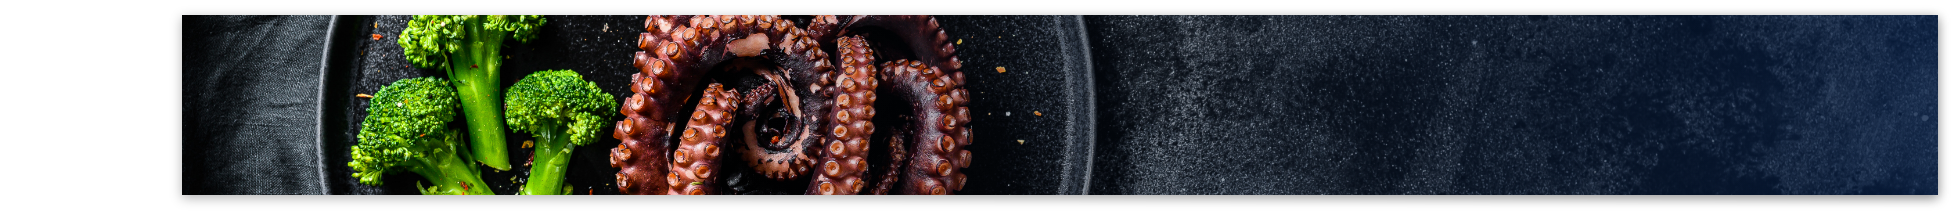
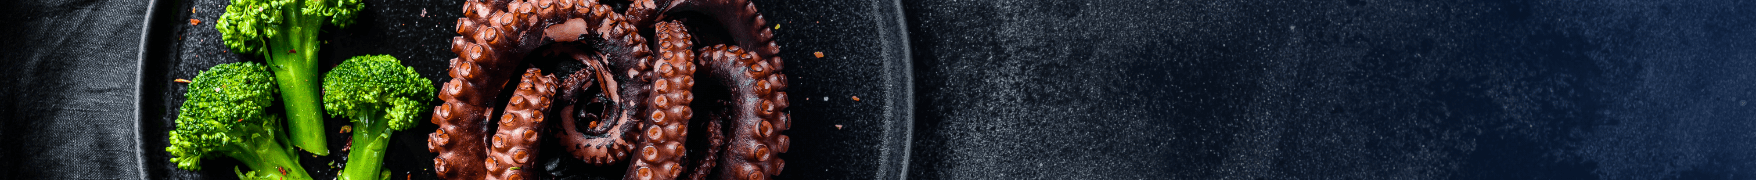
header top update

diff --git a/index.html b/index.html
@@ -3,7 +3,7 @@
 <head>
 	<meta charset="utf-8">
 	<meta http-equiv="x-ua-compatible" content="ie=edge">
-	<title>Online Doctor Consultation Singapore | Virtual Doctor Singapore</title>
+	<title>Place R</title>
 	<meta name="description" content="">
 	<meta name="viewport" content="width=device-width, initial-scale=1, shrink-to-fit=no">
 	<link href="assets/images/logo/favicon.png" rel="shortcut icon" type="image/x-icon">
@@ -27,6 +27,89 @@
 </head>
 
 <body id="page-top">
+
+	<div class="full_body_area">
+		<!--==========================================
+					Start Header area
+		===========================================-->
+		<div class="left_site_menu_area">
+			<div class="logo">
+				<a href=""><img src="assets/images/logo/logo.png" alt=""></a>
+			</div>
+			<div class="main_menu">
+				<ul>
+					<li><a href="">ENTRADAS</a></li>
+					<li><a href="">SOPAS</a></li>
+					<li><a href="">ENSALADAS</a></li>
+					<li><a href="">PASTAS</a></li>
+					<li><a href="">GRILL</a></li>
+					<li><a href="">ESPECIALES</a></li>
+					<li><a href="">BEBIDAS</a></li>
+					<li><a href="">POSTRES</a></li>
+				</ul>
+			</div>
+		</div>
+		<!--==========================================
+		 			End Header area
+		===========================================-->
+
+		<!--==========================================
+					Start Main Body Area
+		===========================================-->
+		<div class="right_body_content">
+			<!-- Top Common Header -->
+			<div class="common_top_header">
+				<div class="container">
+					<div class="row">
+						<div class="col-12">
+							<div class="top_title">
+								<h1>ENTRADAS</h1>
+							</div>
+						</div>
+					</div>
+				</div>
+			</div>
+			<!-- Top Common Header -->
+			<!-- Main Body content  -->
+			<div class="main_body_content">
+				<div class="container">
+					<div class="row">
+						<div class="col-12">
+							<p>Lorem ipsum dolor, sit amet consectetur adipisicing elit. Et quam, dignissimos nihil tempore id beatae tempora eum saepe eveniet ut numquam repellendus eaque recusandae excepturi non labore molestias culpa, blanditiis hic nulla quibusdam consequuntur assumenda, incidunt ab? Eos, aspernatur eveniet! Lorem ipsum dolor sit amet consectetur adipisicing elit. Labore maiores voluptatum veritatis doloribus asperiores deleniti ducimus ab debitis sint magni. Eius corrupti quasi voluptates aliquid fugiat esse, nisi modi odio mollitia sequi voluptate impedit quisquam perspiciatis, ullam assumenda debitis. Consequuntur saepe ratione cum, fugiat suscipit nihil quas aliquam nostrum eligendi at porro repudiandae maxime tempora deleniti perferendis officia tempore iusto dolor mollitia ipsa harum voluptatem fugit excepturi similique. Magni nisi reprehenderit omnis et, dolores tenetur nam maiores placeat, harum illo nihil voluptas velit nobis pariatur vero optio? Illum incidunt impedit et vitae eum id maiores quidem ducimus. Quo incidunt cum natus inventore dignissimos, et vero possimus ipsam animi consequuntur non maiores reiciendis debitis quam veniam, asperiores ab cumque quidem id consequatur placeat. Ad cupiditate quibusdam harum! Voluptates quo consequuntur quos id architecto quis velit praesentium minima laborum beatae consectetur voluptatem dolor ab distinctio necessitatibus temporibus, sunt dolores tempore doloremque excepturi illum possimus minus. Deserunt, libero architecto. Explicabo quos aliquam corrupti, animi quis ad odit at aperiam distinctio ratione facilis dolor labore fugit cumque cupiditate vel facere quo reprehenderit atque repellendus esse nulla? Eius dolores sapiente voluptates repudiandae. Maxime nulla consequuntur assumenda, ducimus excepturi tenetur dolores dolore vitae, eius, veniam nihil mollitia? Expedita, beatae tempora. Dolore tempora nisi, quisquam porro adipisci magni excepturi repellat. Quaerat itaque aut deserunt soluta dignissimos accusamus, repellendus repudiandae ut illum ipsam fugiat odio sed veritatis temporibus earum, commodi blanditiis tempora quo. Quod, corporis. Eius doloribus porro, consectetur totam deleniti cumque obcaecati ullam suscipit facere quis, id consequatur! Quaerat asperiores doloremque itaque tempore repudiandae similique officiis, assumenda sapiente, ut molestias eos at nam. Dolore earum, vero omnis quis voluptatibus libero, a eveniet distinctio qui, tempora repellendus odio ullam quasi? Voluptates praesentium iure nostrum sequi, modi nihil delectus sit eius unde autem inventore exercitationem illo maiores alias nesciunt maxime, repellendus neque, doloribus cumque commodi! Magni ullam distinctio porro voluptates, odio minus, perferendis pariatur nesciunt saepe neque repellendus nisi molestias dicta? Dolorem, dolorum quod! Officia quaerat fugit mollitia ipsa eveniet iste, natus illo cumque libero ducimus reiciendis obcaecati quidem, eum debitis deleniti sed et ea nihil nobis vel rerum necessitatibus consectetur itaque minus. Voluptates, in. Optio ex tempore, eum reprehenderit maxime quis culpa tempora provident quidem, eaque laboriosam iste blanditiis aliquid, molestias temporibus quod. Pariatur minima corrupti reprehenderit, rerum nulla delectus sit impedit ex, vero ducimus, neque non? Laboriosam repudiandae id alias minus exercitationem iste temporibus ut unde sapiente?</p>
+							<p>Lorem ipsum dolor, sit amet consectetur adipisicing elit. Et quam, dignissimos nihil tempore id beatae tempora eum saepe eveniet ut numquam repellendus eaque recusandae excepturi non labore molestias culpa, blanditiis hic nulla quibusdam consequuntur assumenda, incidunt ab? Eos, aspernatur eveniet! Lorem ipsum dolor sit amet consectetur adipisicing elit. Labore maiores voluptatum veritatis doloribus asperiores deleniti ducimus ab debitis sint magni. Eius corrupti quasi voluptates aliquid fugiat esse, nisi modi odio mollitia sequi voluptate impedit quisquam perspiciatis, ullam assumenda debitis. Consequuntur saepe ratione cum, fugiat suscipit nihil quas aliquam nostrum eligendi at porro repudiandae maxime tempora deleniti perferendis officia tempore iusto dolor mollitia ipsa harum voluptatem fugit excepturi similique. Magni nisi reprehenderit omnis et, dolores tenetur nam maiores placeat, harum illo nihil voluptas velit nobis pariatur vero optio? Illum incidunt impedit et vitae eum id maiores quidem ducimus. Quo incidunt cum natus inventore dignissimos, et vero possimus ipsam animi consequuntur non maiores reiciendis debitis quam veniam, asperiores ab cumque quidem id consequatur placeat. Ad cupiditate quibusdam harum! Voluptates quo consequuntur quos id architecto quis velit praesentium minima laborum beatae consectetur voluptatem dolor ab distinctio necessitatibus temporibus, sunt dolores tempore doloremque excepturi illum possimus minus. Deserunt, libero architecto. Explicabo quos aliquam corrupti, animi quis ad odit at aperiam distinctio ratione facilis dolor labore fugit cumque cupiditate vel facere quo reprehenderit atque repellendus esse nulla? Eius dolores sapiente voluptates repudiandae. Maxime nulla consequuntur assumenda, ducimus excepturi tenetur dolores dolore vitae, eius, veniam nihil mollitia? Expedita, beatae tempora. Dolore tempora nisi, quisquam porro adipisci magni excepturi repellat. Quaerat itaque aut deserunt soluta dignissimos accusamus, repellendus repudiandae ut illum ipsam fugiat odio sed veritatis temporibus earum, commodi blanditiis tempora quo. Quod, corporis. Eius doloribus porro, consectetur totam deleniti cumque obcaecati ullam suscipit facere quis, id consequatur! Quaerat asperiores doloremque itaque tempore repudiandae similique officiis, assumenda sapiente, ut molestias eos at nam. Dolore earum, vero omnis quis voluptatibus libero, a eveniet distinctio qui, tempora repellendus odio ullam quasi? Voluptates praesentium iure nostrum sequi, modi nihil delectus sit eius unde autem inventore exercitationem illo maiores alias nesciunt maxime, repellendus neque, doloribus cumque commodi! Magni ullam distinctio porro voluptates, odio minus, perferendis pariatur nesciunt saepe neque repellendus nisi molestias dicta? Dolorem, dolorum quod! Officia quaerat fugit mollitia ipsa eveniet iste, natus illo cumque libero ducimus reiciendis obcaecati quidem, eum debitis deleniti sed et ea nihil nobis vel rerum necessitatibus consectetur itaque minus. Voluptates, in. Optio ex tempore, eum reprehenderit maxime quis culpa tempora provident quidem, eaque laboriosam iste blanditiis aliquid, molestias temporibus quod. Pariatur minima corrupti reprehenderit, rerum nulla delectus sit impedit ex, vero ducimus, neque non? Laboriosam repudiandae id alias minus exercitationem iste temporibus ut unde sapiente?</p>
+						</div>
+					</div>
+				</div>
+			</div>
+			<!-- Main Body content  -->
+			<!-- Footer Area  -->
+			<footer class="footer_area">
+				<div class="container">
+					<div class="row">
+						<div class="col-12">
+							
+						</div>
+					</div>
+				</div>
+			</footer>
+			<!-- Footer Area  -->
+		</div>
+		<!--==========================================
+					End Main Body Area
+		===========================================-->
+
+	</div>
+	
+
+
+
+
+
+
+
+
+
+
 	<!--==========================================
 				Start Header area
 	===========================================-->
@@ -35,9 +118,6 @@
 		 		End Header area
 	===========================================-->
 
-	<!-- <div class="scroll-top">
-		<a href="#"><i class="fas fa-angle-up"></i></a>
-	</div> -->
 
 	<!--jquery js-->
 	<script src="assets/js/jquery.js"></script>

diff --git a/assets/css/style.css b/assets/css/style.css
@@ -4,7 +4,6 @@ body {
   top:0 !important;
   font-size: 16px;
   font-weight: 400;
-  font-family: 'Fjalla One', sans-serif;
   font-family: 'Montserrat', sans-serif;
 }
 
@@ -109,13 +108,11 @@ img{
   padding-bottom: 110px;
 }
 h1{
-  font-size: 30px;
-  font-weight: 900;
-  line-height: normal;
-  letter-spacing: 0.43px;
-  color: #101820;
-  margin-bottom: 17.6px;
+  font-size: 56px;
+  font-weight: 400;
+  color: #FFF;
   text-transform: uppercase;
+  font-family: 'Fjalla One', sans-serif;
 }
 h1 span{
   color: #00c1d5;
@@ -170,3 +167,38 @@ p strong {
     overflow-y: scroll !important;
 }
 
+/* Menu page Area  */
+.full_body_area {
+	display: -webkit-box;
+	display: -ms-flexbox;
+	display: flex;
+	-webkit-box-pack: flex-end;;
+	-ms-flex-pack: flex-end;;
+	justify-content: flex-end;
+	overflow: hidden;
+}
+.left_site_menu_area {
+	width: 191px;
+	overflow: hidden;
+	height: 100vh;
+	background: #2A2155;
+	position: fixed;
+	z-index: 1;
+	top: 0;
+	left: 0;
+}
+.right_body_content {
+	width: calc(100% - 191px);
+	height: 100%;
+	background: #FCFBFE;
+}
+.common_top_header {
+	background: url('../images/banner/banner-1.png') no-repeat 0 0 / cover;
+	position: fixed;
+	width: calc(100% - 191px);
+	display: s;
+}
+.top_title h1 {
+	text-align: right;
+	padding: 38px 0px;
+}
